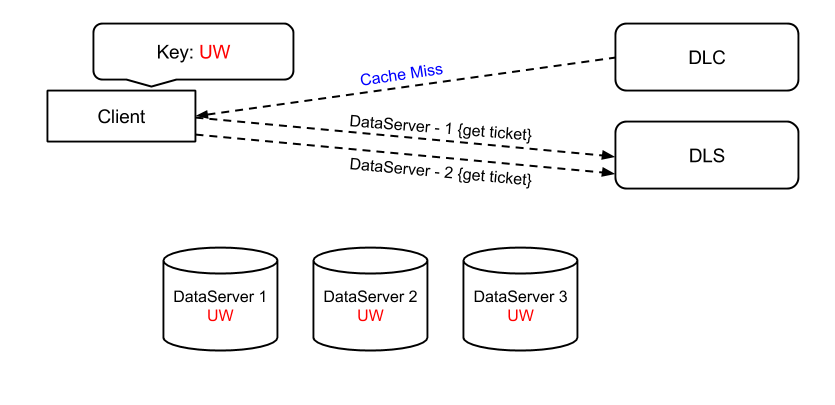
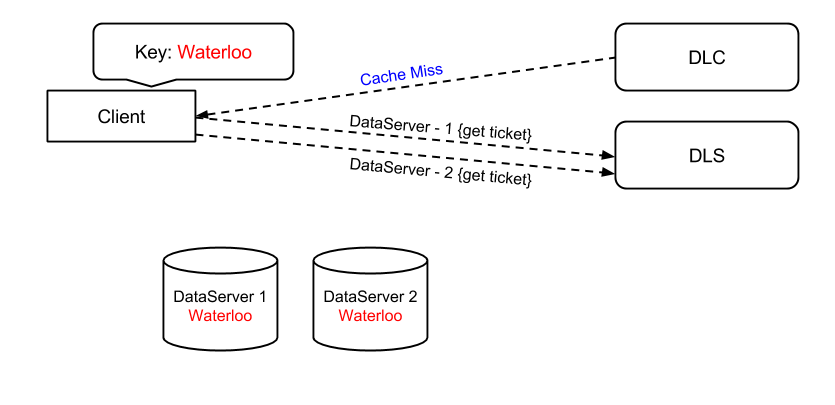
Version 8 is done, redraw MicroFuge Overview figures && redraw DLC example figures

diff --git a/presentation/ICDCS2014/slides.tex b/presentation/ICDCS2014/slides.tex
@@ -109,7 +109,9 @@
       \myv
     \item Meet clients' response time requirements in the shared environment.
       \myv
-    \item We represent response time requirements with request deadlines.
+      \begin{itemize}
+      \item We represent response time requirements with \textbf{request deadlines}.
+      \end{itemize}
       \myv
     \item \(\text{Meeting request deadlines} \rightarrow \text{Performance Isolation.}\)
     \end{itemize}
@@ -178,7 +180,8 @@
   \frametitle{MicroFuge Overview (1)}
   %% \vspace{-5 mm}
   \begin{center}
-  \includegraphics[scale=0.33]{img/MF_FULL_NEW_1.png}
+    %% \includegraphics[scale=0.33]{img/MF_FULL_NEW_1.png}
+    \includegraphics[scale=0.39]{img/MF_FULL_V8_1.png}
   \end{center}
 \end{frame}
 
@@ -186,18 +189,35 @@
   \frametitle{MicroFuge Overview (2)}
   %% \vspace{-5 mm}
   \begin{center}
-  \includegraphics[scale=0.33]{img/MF_FULL_NEW_2.png}
+    %% \includegraphics[scale=0.33]{img/MF_FULL_NEW_2.png}
+    \includegraphics[scale=0.39]{img/MF_FULL_V8_2.png}
+  \end{center}
+\end{frame}
+
+\begin{frame}
+  \frametitle{MicroFuge Overview (3)}
+  %% \vspace{-5 mm}
+  \begin{center}
+    \includegraphics[scale=0.39]{img/MF_FULL_V8_3.png}
+  \end{center}
+\end{frame}
+
+\begin{frame}
+  \frametitle{MicroFuge Overview (4)}
+  %% \vspace{-5 mm}
+  \begin{center}
+    \includegraphics[scale=0.39]{img/MF_FULL_V8_4.png}
   \end{center}
 \end{frame}
 
 \begin{frame}
   \frametitle{Deadline Cache (DLC) - Components}
-  %% \vspace{5.2 mm}
+  \vspace{0.5 mm}
   \begin{figure}
     \begin{center}
-      %% next line is the scale for screenshots taken at home
-      \centerline{\includegraphics[scale=0.45]{img/DLC_ARC_1.png}}
-      %% \centerline{\includegraphics[scale=0.33]{img/DLC_ARC_1.png}}
+      %% next line is the scale for screenshots taken at school
+      %% \centerline{\includegraphics[scale=0.45]{img/DLC_ARC_1.png}}
+      \centerline{\includegraphics[scale=0.33]{img/DLC_ARC_1.png}}
     \end{center}
   \end{figure}
 \end{frame}
@@ -207,9 +227,9 @@
   \frametitle{Deadline Cache (DLC) - Components}
   \begin{figure}
     \begin{center}
-      %% next line is the scale for screenshots taken at home
-      \centerline{\includegraphics[scale=0.45]{img/DLC_ARC_2.png}}
-      %% \centerline{\includegraphics[scale=0.33]{img/DLC_ARC_2.png}}
+      %% next line is the scale for screenshots taken at school
+      %% \centerline{\includegraphics[scale=0.45]{img/DLC_ARC_2.png}}
+      \centerline{\includegraphics[scale=0.33]{img/DLC_ARC_2.png}}
     \end{center}
   \end{figure}
 \end{frame}
@@ -228,7 +248,8 @@
   \frametitle{DLC - A Cache Eviction Example (1)}
   \begin{figure}
     \begin{center}
-      \centerline{\includegraphics[scale=0.33]{img/DLC_V6_1.png}}
+      %% \centerline{\includegraphics[scale=0.33]{img/DLC_V6_1.png}}
+      \centerline{\includegraphics[scale=0.37]{img/DLC_V8_01.png}}
     \end{center}
   \end{figure}
 \end{frame}
@@ -238,7 +259,8 @@
   \frametitle{DLC - A Cache Eviction Example (2)}
   \begin{figure}
     \begin{center}
-      \centerline{\includegraphics[scale=0.33]{img/DLC_V6_2.png}}
+      %% \centerline{\includegraphics[scale=0.33]{img/DLC_V6_2.png}}
+      \centerline{\includegraphics[scale=0.37]{img/DLC_V8_02.png}}
     \end{center}
   \end{figure}
 \end{frame}
@@ -247,7 +269,8 @@
   \frametitle{DLC - A Cache Eviction Example (3)}
   \begin{figure}
     \begin{center}
-      \centerline{\includegraphics[scale=0.33]{img/DLC_V6_3.png}}
+      %% \centerline{\includegraphics[scale=0.33]{img/DLC_V6_3.png}}
+      \centerline{\includegraphics[scale=0.37]{img/DLC_V8_03.png}}
     \end{center}
   \end{figure}
 \end{frame}
@@ -256,7 +279,8 @@
   \frametitle{DLC - A Cache Eviction Example (4)}
   \begin{figure}
     \begin{center}
-      \centerline{\includegraphics[scale=0.33]{img/DLC_V6_4.png}}
+      %% \centerline{\includegraphics[scale=0.33]{img/DLC_V6_4.png}}
+      \centerline{\includegraphics[scale=0.37]{img/DLC_V8_04.png}}
     \end{center}
   \end{figure}
 \end{frame}
@@ -266,7 +290,8 @@
   \frametitle{DLC - A Cache Eviction Example (5)}
   \begin{figure}
     \begin{center}
-      \centerline{\includegraphics[scale=0.33]{img/DLC_V6_5.png}}
+      %% \centerline{\includegraphics[scale=0.33]{img/DLC_V6_5.png}}
+      \centerline{\includegraphics[scale=0.37]{img/DLC_V8_05.png}}
     \end{center}
   \end{figure}
 \end{frame}
@@ -275,7 +300,8 @@
   \frametitle{DLC - A Cache Eviction Example (6)}
   \begin{figure}
     \begin{center}
-      \centerline{\includegraphics[scale=0.33]{img/DLC_V6_6.png}}
+      %% \centerline{\includegraphics[scale=0.33]{img/DLC_V6_6.png}}
+      \centerline{\includegraphics[scale=0.37]{img/DLC_V8_06.png}}
     \end{center}
   \end{figure}
 \end{frame}
@@ -284,7 +310,8 @@
   \frametitle{DLC - A Cache Eviction Example (7)}
   \begin{figure}
     \begin{center}
-      \centerline{\includegraphics[scale=0.33]{img/DLC_V6_7.png}}
+      %% \centerline{\includegraphics[scale=0.33]{img/DLC_V6_7.png}}
+      \centerline{\includegraphics[scale=0.37]{img/DLC_V8_07.png}}
     \end{center}
   \end{figure}
 \end{frame}
@@ -293,7 +320,8 @@
   \frametitle{DLC - A Cache Eviction Example (8)}
   \begin{figure}
     \begin{center}
-      \centerline{\includegraphics[scale=0.33]{img/DLC_V6_8.png}}
+      %% \centerline{\includegraphics[scale=0.33]{img/DLC_V6_8.png}}
+      \centerline{\includegraphics[scale=0.37]{img/DLC_V8_08.png}}
     \end{center}
   \end{figure}
 \end{frame}
@@ -302,7 +330,8 @@
   \frametitle{DLC - A Cache Eviction Example (9)}
   \begin{figure}
     \begin{center}
-      \centerline{\includegraphics[scale=0.33]{img/DLC_V6_9.png}}
+      %% \centerline{\includegraphics[scale=0.33]{img/DLC_V6_9.png}}
+      \centerline{\includegraphics[scale=0.37]{img/DLC_V8_09.png}}
     \end{center}
   \end{figure}
 \end{frame}
@@ -311,7 +340,8 @@
   \frametitle{DLC - A Cache Eviction Example (10)}
   \begin{figure}
     \begin{center}
-      \centerline{\includegraphics[scale=0.33]{img/DLC_V6_10.png}}
+      %% \centerline{\includegraphics[scale=0.33]{img/DLC_V6_10.png}}
+      \centerline{\includegraphics[scale=0.37]{img/DLC_V8_10.png}}
     \end{center}
   \end{figure}
 \end{frame}
@@ -629,7 +659,7 @@
 
 
 \begin{frame}
-  \frametitle{Deadline-Aware Caching with DLC vs Memcached}
+  \frametitle{Deadline-Aware Caching (1)}
   \begin{figure}[t]
     \begin{center}
       \centerline{\includegraphics[scale=0.5]{img/EC2/EC2_CS_MM/cache_48.png}}
@@ -640,7 +670,7 @@
 \end{frame}
 
 \begin{frame}
-  \frametitle{Deadline-Aware Caching with DLC and DLS vs Memcached}
+  \frametitle{Deadline-Aware Caching (2)}
   \begin{figure}[t]
     \begin{center}
       \centerline{\includegraphics[scale=0.5]{img/EC2/EC2_SH_MM/cache_48.png}}
@@ -689,6 +719,22 @@
 
 
 \begin{frame}
+  \frametitle{Conclusion}
+  \begin{itemize}
+  \item Predictable performance is necessary in multi-tenant environments.
+    \myv
+  \item MicroFuge tackles the performance isolation problem with its
+    deadline-aware caching and scheduling middleware.
+    \myv
+  \item MicroFuge reduces deadline miss rate from over 20\% to
+    less than 5\%.
+    \myv
+  \item \textbf{Thank you!}
+  \end{itemize}
+\end{frame}
+
+
+\begin{frame}
   \centerline{Thank You.}
 \end{frame}
 
@@ -705,7 +751,6 @@
     of deadline misses.
   \end{itemize}
 \end{frame}
-
 
 \begin{frame}
   \frametitle{Experimental Results - Deadline Miss with Admission Control}
